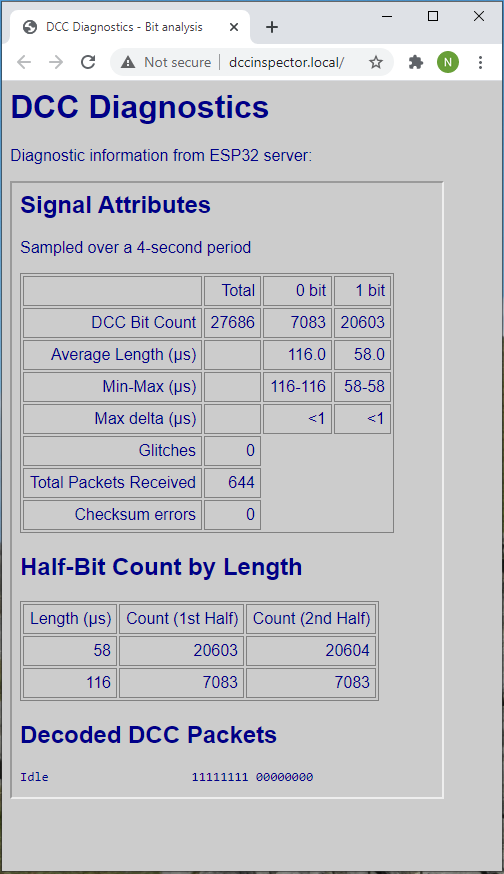
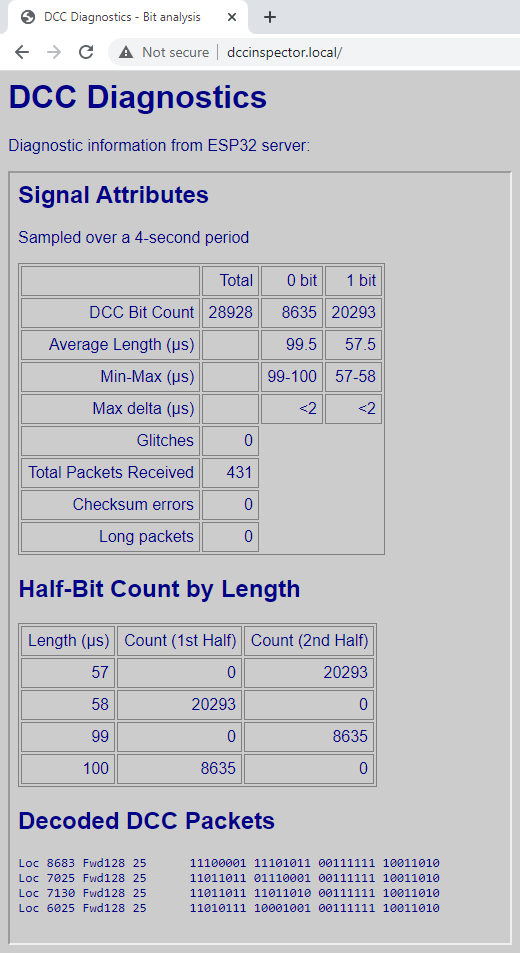
Updates to comments and readme.
Updates to comments and readme.  Change 8266 input pin so it doesn't clash with OLED usage on Kit 8 board.

Changed region(s): [[0.0, 0.0, 1.0, 1.0]]

diff --git a/DCC_Diagnostics/Config.h b/DCC_Diagnostics/Config.h
@@ -30,7 +30,7 @@
 //          Arduino Nano (Timer1/pin D8)
 //          Arduino Mega (Timer4/pin D49)
 // If we don't use this, then the selected input pin must support change interrupt 
-// (defaults to pin D2 on Uno, Nano and Mega, GPIO5 on ESP8266/ESP32.
+// (defaults to pin D2 on Uno, Nano and Mega, GPIO2 on ESP8266 and GPIO5 on ESP32.
 #define USETIMER 
 
 // Input pin definitions.  Defaults:
@@ -39,14 +39,14 @@
 //    Mega (USETIMER):               49
 //    Nano/Uno/Mega, Non-USETIMER:   2
 //    ESP32:                         5
-//    ESP8266:                       5
+//    ESP8266:                       2
 //    Other:                         2
 #if defined(USETIMER)
   #if defined(ARDUINO_UNO_NANO)
     #define INPUTPIN 8
   #elif defined(ARDUINO_MEGA)
     #define INPUTPIN 49
-  #elif defined(ESP32) || defined(ESP8266)
+  #elif defined(ESP32)
     #define INPUTPIN 5
   #else
     // Assume timer not supported, use default pin
@@ -54,7 +54,7 @@
     #define INPUTPIN 2
   #endif
 #else
-  #if defined(ESP32) || defined(ESP8266)
+  #if defined(ESP32) 
     #define INPUTPIN 5
   #else
     #define INPUTPIN 2

diff --git a/README.md b/README.md
@@ -19,20 +19,21 @@ The controller may be directly connected to another controller of the same I/O v
 DCC++ or DCC++ EX system, but if used to monitor DCC signals, which are
 normally bipolar 12-18V signals, an optocoupler circuit will be required.
 Various ones are discussed on the internet, but if you use a 6N137 I 
-would recommend a 1nF capacitor across the input pins 2 and 3 to stabilise
-the input, and use a pull-up resistor on the output pin 6 of 470 ohms 
-connected to +5V - a larger resistor (even the Arduino's internal pull-up)
+would recommend a 100nF capacitor across the DCC input to stabilise
+on the input, and use a pull-up resistor on the output pin 6 of 330 ohms (connected to 3.3V) or 470 ohms 
+(connected to 5V) - a larger resistor (even the Arduino's internal pull-up)
 will generally still work but will slow down the optocoupler.  No 
 pull-up resistor is required on pin 7.
 
 ![Recommended Optocoupler Circuit](DCC-Isolator-6N137.png "Recommended Optocoupler Circuit")
 
-If you're using an ESP8266 or ESP32 (3.3V supply) then the top of the resistor R3 should be
-connected to a 3.3V pin of the microcontroller, not the 5V supply.  The VCC terminal of the 
-6N137 should still be connected to +5V, or it should be replaced with a 3.3V tolerant optocoupler.
+If you're using an ESP8266 or ESP32 (3.3V supply) then, strictly, the 6N137 isn't rated for 3.3V.
+I've had good results running with a 3.3V supply, but ideally the top of the resistor R3 should be
+connected to a 3.3V pin of the microcontroller and VCC terminal of the 6N137 should still be 
+connected to +5V, or the optocoupler should be replaced with a 3.3V tolerant optocoupler.
 
 The default input pin used by the sketch depends on the target used.  For Arduino Uno and Nano, pin 8; 
-for Mega, pin 49.  For the ESP8266/ESP32 it's GPIO5 (D2 on the NodeMCU).
+for Mega, pin 49.  For the ESP8266/ESP32 it's GPIO2 (labelled D4 on the 8266 NodeMCU).
 
 The diagnostic program supports the Arduino Uno, Nano, Mega and ESP32 particularly.
 
@@ -57,7 +58,7 @@ a standard browser.  The device connects to WiFi using WPS during startup.  Pres
 resetting the device, and it should get its credentials from the router.  From that point onward, it will 
 connect using the same credentials by preference.
 
-![Example of output in web browser](WebInferface.PNG "Example of web output")
+![Example of output in web browser](WebInterface.PNG "Example of web output")
 
 ## Serial USB Output
 
@@ -83,13 +84,13 @@ Example Uno output from DCC++ Classic (5V direct connection, Main Track):
 -
 Bit Count=29782 (Zeros=6687, Ones=23095), Glitches=0
 Packets received=608, Checksum Error=0, Lost pkts=0, Long pkts=0
-0 half-bit length (us): 100.0 (100-100) delta <= 1
-1 half-bit length (us): 58.0 (58-58) delta <= 1
+0 half-bit length (us): 100.0 (100-100) delta < 1
+1 half-bit length (us): 58.0 (58-58) delta < 1
 ------ Half-bit count by length (us) -------
 58	23095	23095
 100	6687	6687
 --------------------------------------------
-Idle 
+Idle                    11111111 00000000
 -
 Bit Count=27022 (Zeros=10585, Ones=16436), Glitches=0
 Packets received=432, Checksum Error=0, Lost pkts=0, Long pkts=0
@@ -100,7 +101,7 @@ Packets received=432, Checksum Error=0, Lost pkts=0, Long pkts=0
 100	10586	10586
 --------------------------------------------
 Loc 7012 Rev128  Stop   11011011 01100100 00111111 00000000 
-Loc 3 Forw128 25  00000011 00111111 10011010 
+Loc 3 Forw128 25        00000011 00111111 10011010 
 
 -
 
@@ -112,10 +113,10 @@ Example Uno output from DCC++ EX (5V direct connection, Main Track):
 -
 Bit Count=27641 (Zeros=6910, Ones=20731), Glitches=0
 Packets received=628, Checksum Error=0, Lost pkts=0, Long pkts=0
-0 half-bit length (us): 116.0 (110-122) delta <= 13
-1 half-bit length (us): 58.0 (52-64) delta <= 13
+0 half-bit length (us): 116.0 (110-122) delta < 13
+1 half-bit length (us): 58.0 (52-64) delta < 13
 --------------------------------------------
-Idle 
+Idle                    11111111 00000000 
 -
 ```
 
@@ -123,27 +124,16 @@ Example ESP32 output from DCC++ (12V, 6N137 Optocoupler, Main Track):
 
 ```
 -
-Bit Count/4 sec=23173 (Zeros=16582, Ones=6591), Glitches=23173
-Packets received=144, Checksum Error=16, Lost pkts=0, Long pkts=16
+Bit Count/4 sec=28842 (Zeros=8611, Ones=20231), Glitches=0
+Packets received=430, Checksum Error=0, Lost pkts=0, Long pkts=0
 0 half-bit length (us): 99.5 (99-100) delta < 2
 1 half-bit length (us): 57.5 (57-58) delta < 2
-IRC Duration (us): 2.1 (1-3),  CPU load: 0.8%
------- Half-bit count by length (us) -------
-57      0       6591
-58      6591    0
-99      0       16582
-100     16582   0
---------------------------------------------
+IRC Duration (us): 2.1 (2-14),  CPU load: 34.0%
 --
-Loc 3 F20-F13 0         00000011 11011110 00000000
-Loc 3 Fwd128 3          00000011 00111111 10000100
-Loc 6889 Rev128 126     11011010 11101001 00111111 01111111
-Loc 6025 Fwd128 Stop    11010111 10001001 00111111 10000000
-Loc 7025 Rev128 Estop   11011011 01110001 00111111 00000001
-Loc 3 F8-F5 0           00000011 10110000
-Loc 3 F28-F21 0         00000011 11011111 00000000
-Loc 3 L F4-F1 0         00000011 10000000
-Loc 3 F12-F9 0          00000011 10100000
+Loc 8683 Fwd128 25      11100001 11101011 00111111 10011010
+Loc 7025 Fwd128 25      11011011 01110001 00111111 10011010
+Loc 7130 Fwd128 25      11011011 11011010 00111111 10011010
+Loc 6025 Fwd128 25      11010111 10001001 00111111 10011010
 -
 ```
 
